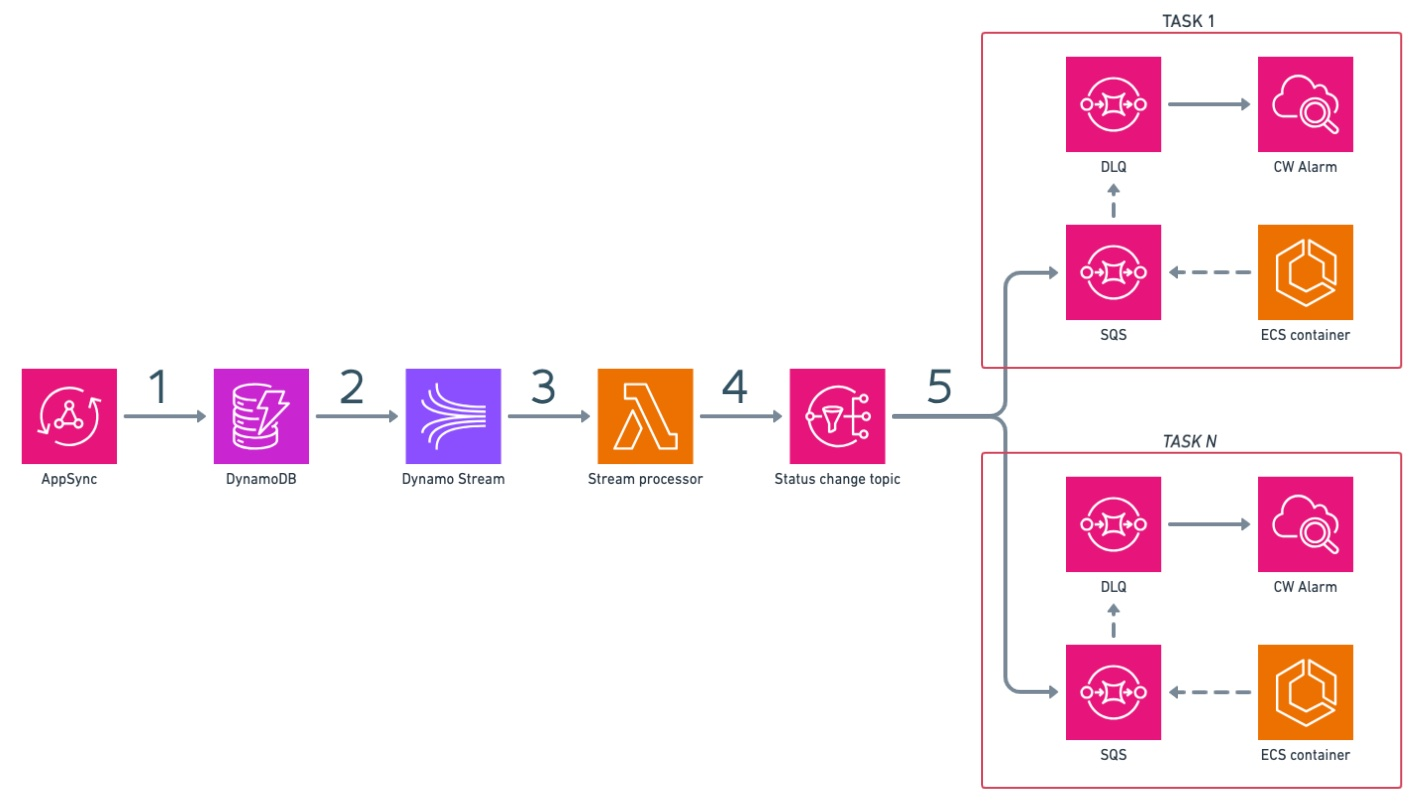
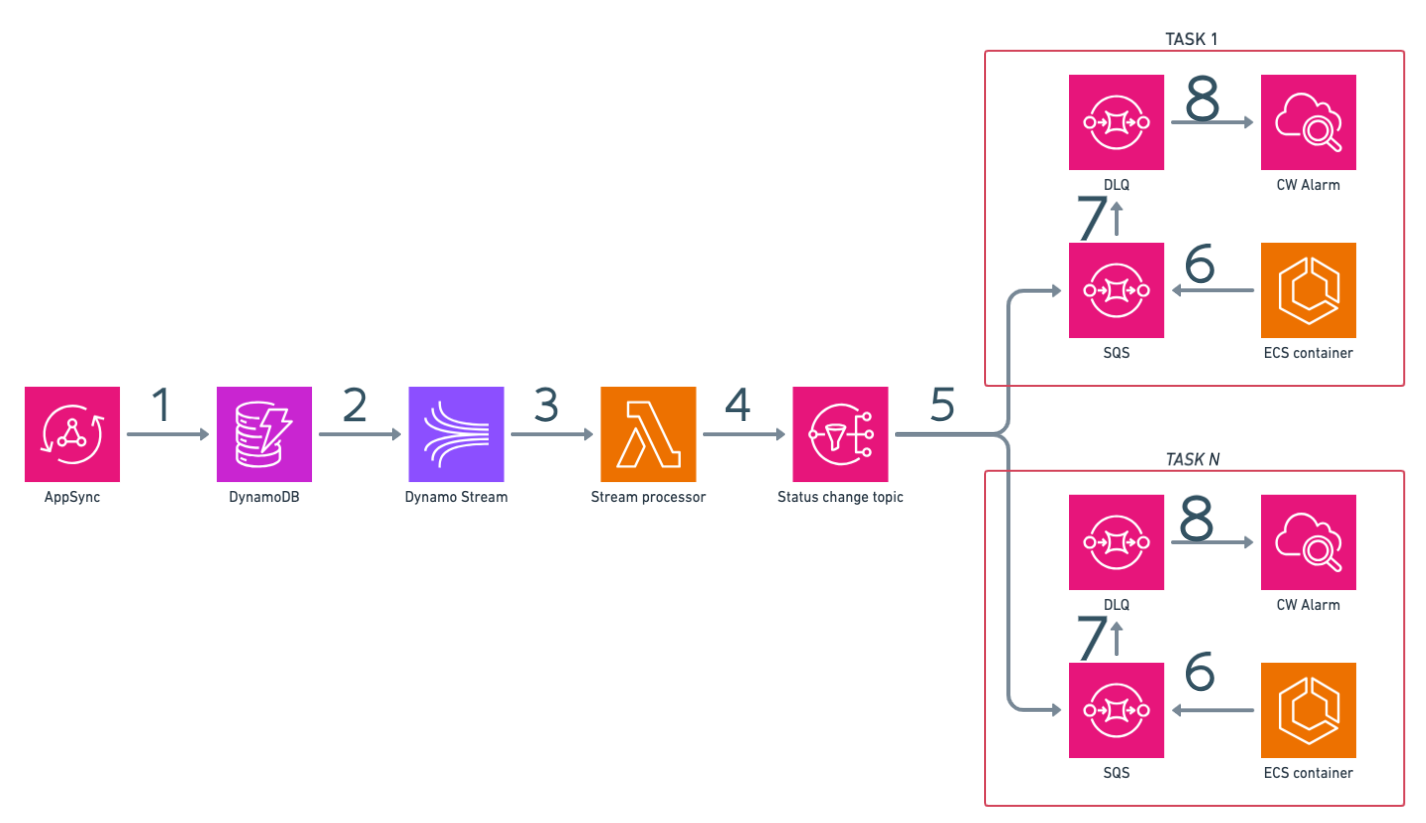
readme polish

Changed region(s): [[0.4958, 0.0, 0.9915, 0.995], [0.0, 0.4353, 0.4958, 0.6219]]

diff --git a/README.md b/README.md
@@ -12,14 +12,14 @@ The scope of the project is to measure time taken by each components in the chai
 
 ![Architecture](./docs/hld.png)
 
-1. The AppSync API receives the events and stores them in the DynamoDB table
-2. The DynamoDB stream events 
+1. The AppSync API receives mutations and stores derived data in the DynamoDB table
+2. The DynamoDB stream the events 
 3. The Lambda function is triggered by the DynamoDB stream
 4. The Lambda function sends the events to the SNS topic
 5. The SNS topic sends the events to the SQS queues
 6. The Fargate service reads the events from the SQS queues
-7. If events are not processed within a certain time, they are sent to the DLQ
-8. A cloudwatch alarm is triggered if the DLQ is not empty
+7. If events are not processed within a timeout, they are moved to the DLQ
+8. A Cloudwatch alarm is triggered if the DLQ is not empty
 
 Custome metrics are also created to measure the time taken by each component to process the events, so you can use cloudwatch to create dashboards and alarms based on these metrics.
 
